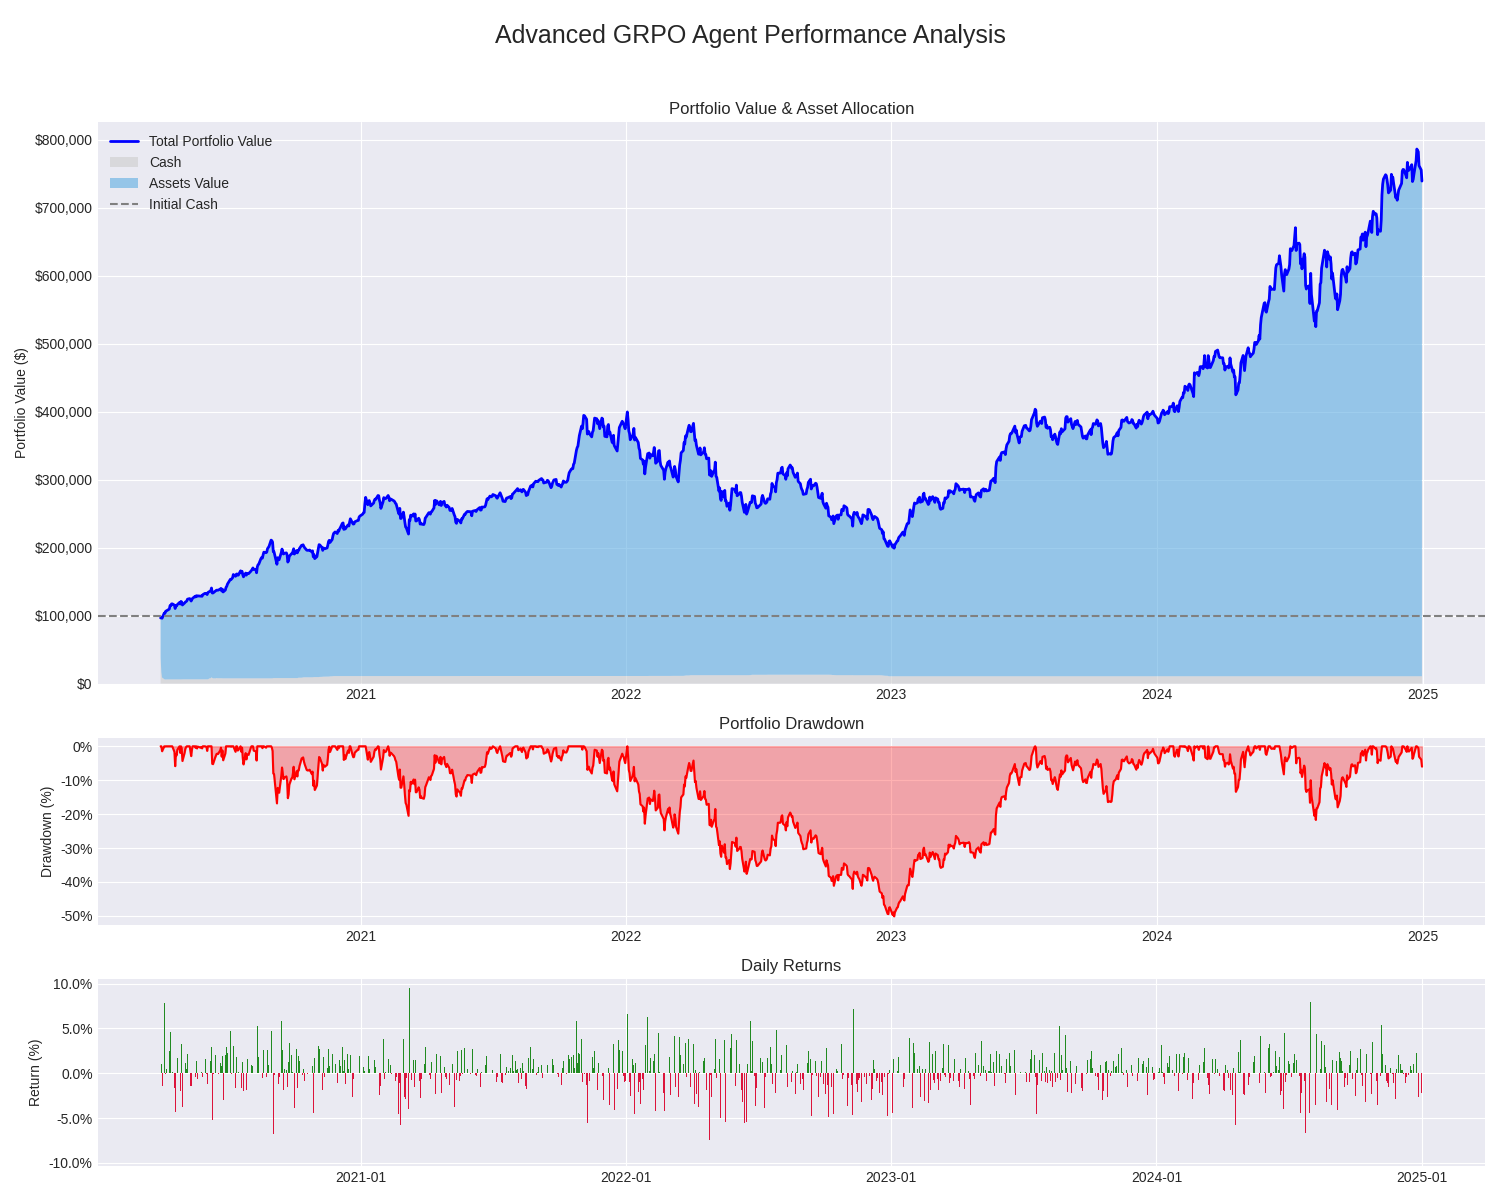
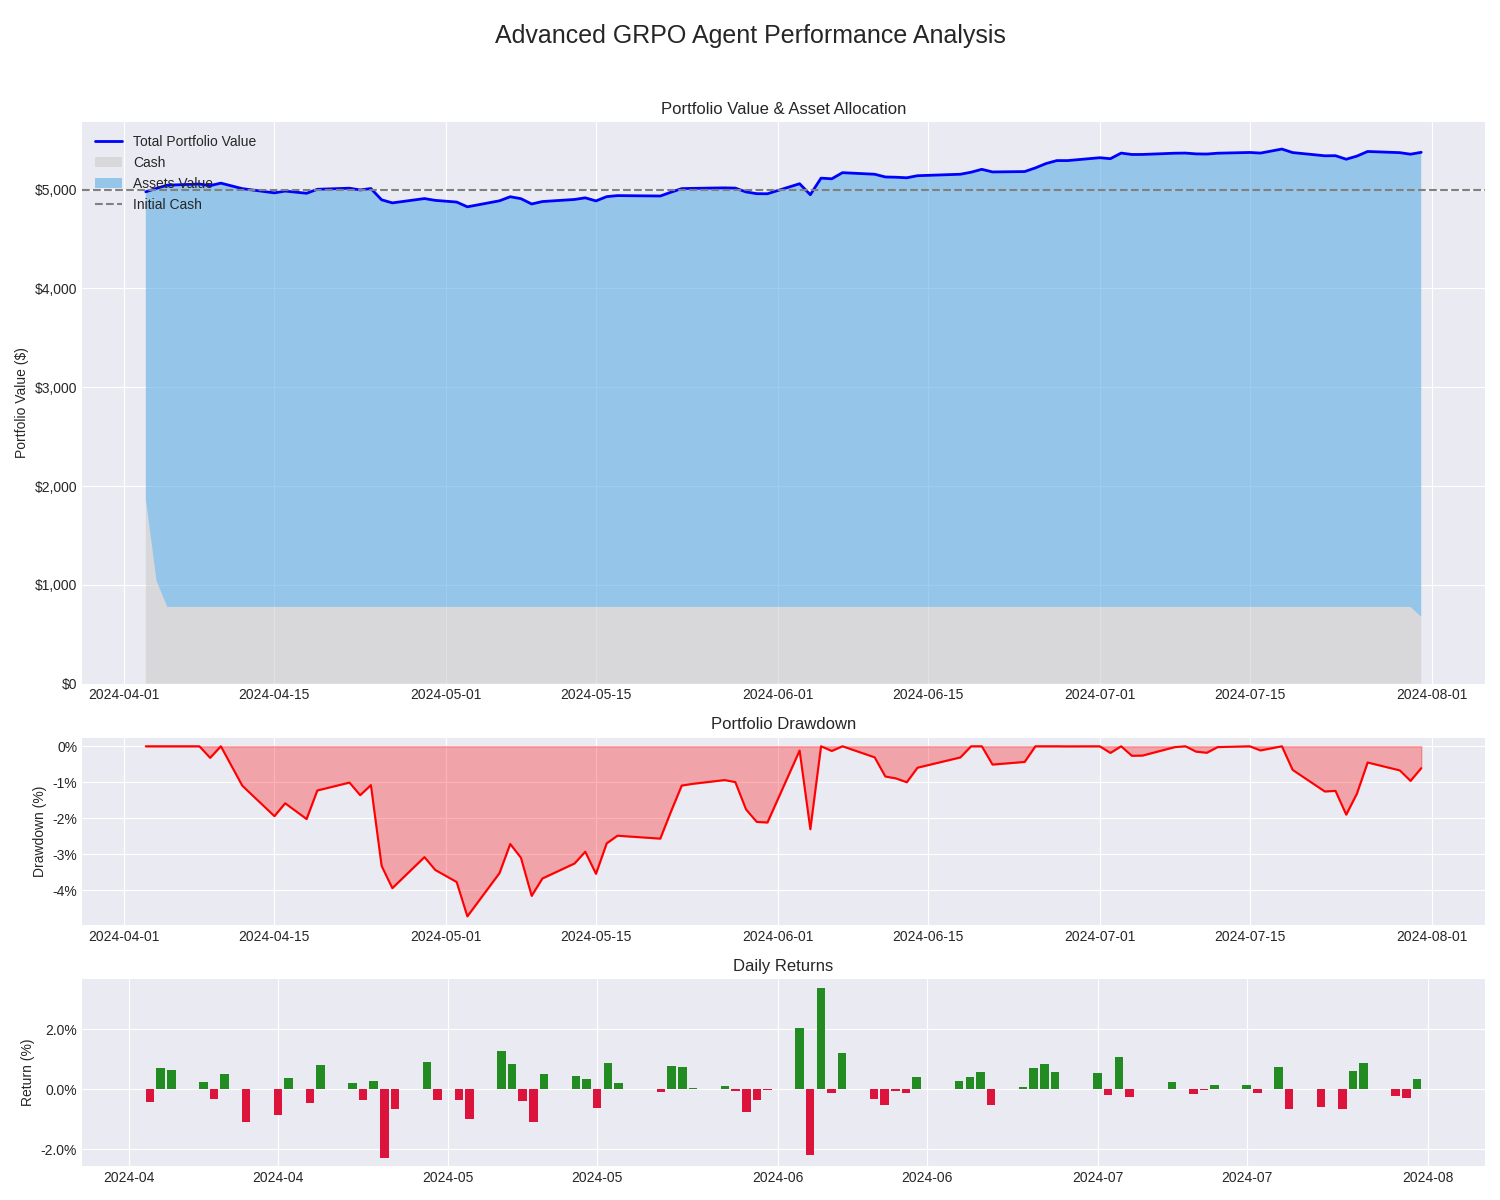
changed for india

diff --git a/test.py b/test.py
@@ -18,11 +18,11 @@ from portfolio_simulator.rl_agent.environment import PortfolioEnv
 from portfolio_simulator.rl_agent.grpo_agent import GRPOAgent
 
 # --- Configuration ---
-MODEL_PATH = "GRPO_models_SS_M4/GRPO_portfolio_1601504.pth" 
-TEST_START_DATE = '2020-01-01'
-TEST_END_DATE = '2025-01-01'
+MODEL_PATH = "GRPO_models_SS_M4/GRPO_portfolio_51552.pth" 
+TEST_START_DATE = '2024-01-01'
+TEST_END_DATE = '2024-08-01'
 ASSETS_FILEPATH = 'portfolio_simulator/assets.txt'
-INITIAL_CASH = 100000.0
+INITIAL_CASH = 5000.0
 LOOKBACK_WINDOW = 60
 MAX_TEST_DAYS = (datetime.strptime(TEST_END_DATE, '%Y-%m-%d') - datetime.strptime(TEST_START_DATE, '%Y-%m-%d')).days
 

diff --git a/portfolio_simulator/rl_agent/grpo_agent.py b/portfolio_simulator/rl_agent/grpo_agent.py
@@ -16,7 +16,7 @@ class GRPOActorNetwork(nn.Module):
     Actor-only network for GRPO using the same hybrid CNN-MLP architecture.
     Removes the critic head from the original ActorCritic.
     """
-    def __init__(self, state_dim, action_dim, action_std_init, device, n_assets=30, lookback_window=60):
+    def __init__(self, state_dim, action_dim, action_std_init, device, n_assets=13, lookback_window=60):
         super(GRPOActorNetwork, self).__init__()
 
         self.device = device

diff --git a/train_grpo.py b/train_grpo.py
@@ -20,8 +20,8 @@ def train():
     # --- Environment Configuration ---
     assets_filepath = 'portfolio_simulator/assets.txt'
     start_date = '2004-01-01'
-    end_date = '2020-01-01'
-    initial_cash = 100000.0
+    end_date = '2022-01-01'
+    initial_cash = 5000.0
     group_size = 16 
     env = SingleStateGRPOEnv(group_size, assets_filepath, start_date, end_date, initial_cash)
 

diff --git a/README.md b/README.md
@@ -31,7 +31,7 @@ The important aspect is to use of **Group Relative Policy Optimization (GRPO)**.
 The simulation environment is the backbone of the training process, designed to replicate real-world market dynamics.
 
 *   **Data Source**: Historical daily price data is downloaded automatically using the `yfinance` library. The environment exclusively uses the **`Adj Close`** (Adjusted Close) price for all calculations. This is crucial as it accounts for corporate actions like stock splits and dividend distributions, providing a more accurate representation of total return.
-*   **Asset Universe**: The agent is trained and tested on a universe of **30 diverse US equities**. The list is defined in `portfolio_simulator/assets.txt` and includes a mix of technology, consumer discretionary, industrial, and financial stocks (e.g., AAPL, MSFT, AMZN, JPM, CAT).
+*   **Asset Universe**: The agent is trained and tested on a universe of **13 diverse Indian equities**. The list is defined in `portfolio_simulator/assets.txt` and includes a mix of technology, financial services, consumer goods, automotive, pharmaceuticals, and metals stocks.
 *   **State Representation**: At each step, the agent receives a comprehensive view of the market and its portfolio, including:
     *   Normalized cash balance.
     *   Normalized value of current holdings for each asset.
